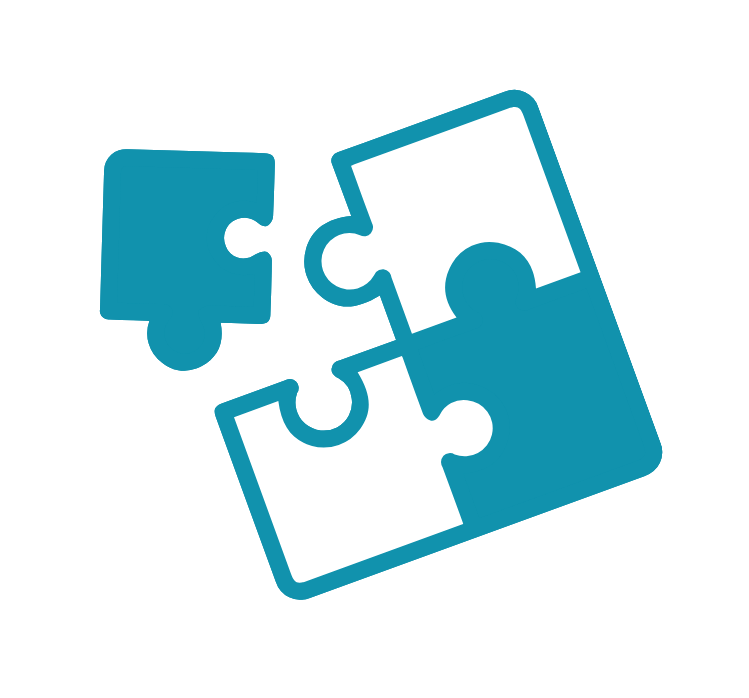
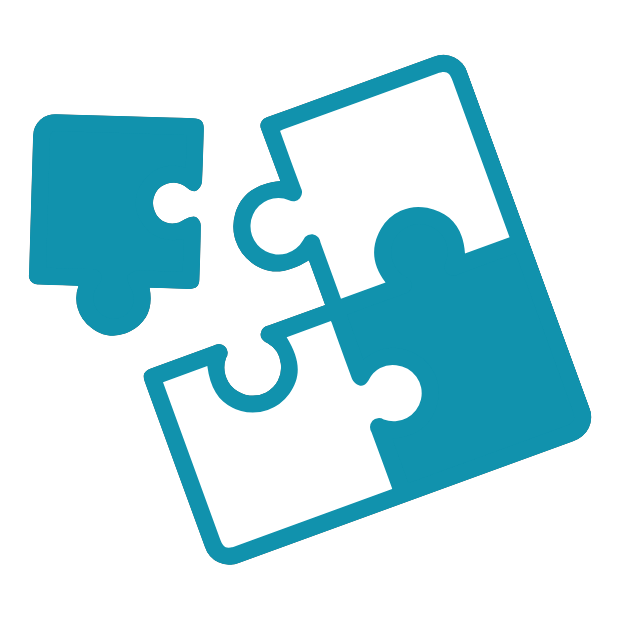
Align Why-it-matters + lock headline gold-word emphasis
- Why it matters: stat numbers slate→navy, gold eyebrow→AA-safe #b8860a
  (site-wide for .eyebrow.gold on light), label em→navy, drop a dead rule.
  Add reusable --navy / --gold-ink tokens.
- Headline emphasis locked to one device — a solid gold word (.gold-word,
  deep gold on light / bright on dark). Highlighted: "careers" (why),
  "Creation" (ecosystem), "gap" + "future." (why future wrights).
- Mission graphic uses client puzzle.png (trimmed/squared to 620×620);
  both V&M graphics matched at 80px; staggered entrance on the section.
- "Read more" stays a text-arrow link; hover gets a navy arrow-circle.

Documented in DESIGN-CONTEXT.md.

Changed region(s): [[0.0306, 0.0919, 0.95, 0.9194], [0.5516, 0.5516, 0.7048, 0.7048]]

diff --git a/styles/site.css b/styles/site.css
@@ -37,6 +37,8 @@
     --brand-deep-2: #28283A;     /* derived: darker slate */
     --brand-accent: #F4B400;     /* primary · Future Wrights logo gold */
     --brand-accent-2: #D19A00;   /* derived: darker gold for hover */
+    --navy: #0A1B3D;             /* brand navy · headings/numbers on light */
+    --gold-ink: #b8860a;         /* deep gold · gold TEXT/icons on light (WCAG AA) */
     --cyan: #00E5FF;             /* secondary accent (use sparingly on light bg) */
     --grey-30: #6161634D;        /* grey-opacity-30 */
     --success: #15803D;
@@ -136,8 +138,13 @@
     margin: 0 0 var(--sp-3);
   }
   .section--dark .eyebrow { color: rgba(255,255,255,0.85); }
-  .eyebrow.gold { color: var(--brand-accent-2); }
+  .eyebrow.gold { color: var(--gold-ink); }
   .section--dark .eyebrow.gold { color: var(--brand-accent); }
+
+  /* Headline keyword emphasis — ONE device: solid gold word.
+     Deep gold on light sections, bright logo gold on dark. */
+  .gold-word { color: var(--gold-ink); }
+  .section--dark .gold-word { color: var(--brand-accent); }
 
   /* ============================================================
      Section header pattern — single source of truth for every
@@ -525,11 +532,12 @@
     transition: transform var(--dur-micro) var(--ease-out);
   }
   .text-arrow:hover .arrow-circle {
-    background: rgba(14,14,15,0.08);
-    border-color: var(--ink);
+    background: var(--navy);
+    border-color: var(--navy);
   }
   .text-arrow:hover .arrow-circle svg {
     transform: translateX(3px);
+    color: #fff;
   }
   .text-arrow:focus-visible { outline: none; }
   .text-arrow:focus-visible .arrow-circle { box-shadow: var(--focus-ring); }
@@ -691,7 +699,7 @@
     font-weight: 600;
     letter-spacing: -0.03em;
     line-height: 1;
-    color: var(--brand-deep);
+    color: var(--navy);
     margin-bottom: var(--sp-2);
     font-variant-numeric: tabular-nums;
   }
@@ -701,7 +709,7 @@
     color: var(--ink);
     margin: 0 0 var(--sp-3);
   }
-  .stat .label em { font-style: italic; color: var(--brand-deep-2); }
+  .stat .label em { font-style: italic; color: var(--navy); }
   .stat .source {
     border: 0; padding: 0;
     margin-top: auto;
@@ -721,11 +729,6 @@
     color: var(--ink);
     letter-spacing: -0.3px;
     font-weight: 500;
-  }
-  .stats-conclusion strong {
-    color: var(--brand-deep); font-weight: 600;
-    background: linear-gradient(180deg, transparent 70%, rgba(244,180,0,0.4) 70%);
-    padding: 0 4px;
   }
   .stats-link {
     text-align: center; margin: var(--sp-4) 0 0;

diff --git a/index.html b/index.html
@@ -225,8 +225,8 @@ header.site:not(.scrolled) {
 .vm-badge::before { content:""; width:7px; height:7px; border-radius:50%; background: currentColor; }
 .vm-badge--gold   { background: rgba(244,180,0,0.14); color:#b8860a; }
 .vm-badge--cyan { background: rgba(0,229,255,0.12); color:#0e8fa8; }
-.vm-card__ico svg { width:76px; height:76px; }
-.vm-card__ico--art img { width:auto; height:92px; display:block; }   /* puzzle.png illustration */
+.vm-card__ico svg { width:80px; height:80px; }
+.vm-card__ico--art img { width:80px; height:80px; display:block; }   /* puzzle.png (squared) — matches telescope */
 .vm-card--vision  .vm-card__ico { color:#b8860a; }
 .vm-card--mission .vm-card__ico { color:#12a5c4; }
 .vm-card h3 { font-family:"General Sans","Inter",sans-serif; font-size:clamp(21px,2.3vw,27px); font-weight:600; letter-spacing:-.02em; line-height:1.22; color: var(--ink); margin:0 0 var(--sp-3); }
@@ -352,7 +352,7 @@ header.site:not(.scrolled) {
     <div class="container">
       <div class="section-head reveal">
         <span class="eyebrow gold">Why it matters</span>
-        <h2>The future careers students are heading into are already being rewritten by AI.</h2>
+        <h2>The future <span class="gold-word">careers</span> students are heading into are already being rewritten by AI.</h2>
         <p>AI isn't something students will deal with later — it's already reshaping how universities admit, how employers hire, and how students are being asked to learn. Four numbers, drawn from Statistics Canada, KPMG, and LinkedIn, show why now matters.</p>
       </div>
 
@@ -400,7 +400,7 @@ header.site:not(.scrolled) {
       <div class="vm-wrap reveal">
         <div class="vm-intro section-head">
           <span class="eyebrow gold">Why Future Wrights</span>
-          <h2>Filling the gap between school and the <span class="vm-grad">future.</span></h2>
+          <h2>Filling the <span class="vm-grad">gap</span> between school and the <span class="vm-grad">future.</span></h2>
           <p class="vm-sub">We prepare high school students not just to keep up with AI, but to lead with it—<span class="g">ethically</span>, <span class="g">creatively</span>, and <span class="g">confidently</span>.</p>
         </div>
 
@@ -432,7 +432,7 @@ header.site:not(.scrolled) {
     <div class="container">
       <div class="section-head reveal">
         <span class="eyebrow gold">The Future Wrights ecosystem</span>
-        <h2>A journey from AI Foundations<br>to Real-World Creation.</h2>
+        <h2>A journey from AI Foundations<br>to Real-World <span class="gold-word">Creation</span>.</h2>
         <p>Students begin in AI Labs, where curiosity becomes hands-on exploration and creative confidence. From there, they specialize through mentorship-driven University or Industry Tracks before advancing into AI Studio — a collaborative environment where ambitious students build real-world projects, gain experience, and bring ideas to life.</p>
       </div>
 

diff --git a/DESIGN-CONTEXT.md b/DESIGN-CONTEXT.md
@@ -168,6 +168,15 @@ records the decision).
     with a cyan-glow hover). The old `.fw-btn*` classes were **retired**.
   - **Out of scope:** `for-partners.html` / `industry-track.html` keep their own parked
     button styles (separate `tokens.css` system).
+- **Headline keyword emphasis — LOCKED (2026-05):** ONE device — a **solid gold word**
+  (never a highlighter on headlines). Reusable `.gold-word` class: deep gold `--gold-ink`
+  `#b8860a` on light sections, bright `--brand-accent` `#F4B400` on dark (`.section--dark`).
+  Applied: hero "AI era", Why Future Wrights "gap" + "future.", Why it matters "careers",
+  Ecosystem "Creation". The gold **highlighter-marker** (`.hl-gold`) is reserved for
+  emphasis inside **body/paragraph** text only (e.g. the stats conclusion). (Hero `.grad`
+  and `.vm-grad` predate `.gold-word` but render identically; migrate later for tidiness.)
+- **Shared tokens added (`site.css`):** `--navy: #0A1B3D` (brand navy for headings/numbers
+  on light) · `--gold-ink: #b8860a` (gold text/icons on light, AA) · `--radius-btn: 14px`.
 
 ### Visual system as built
 - **Palette:** navy `#0A1B3D`, gold `#F4B400` (logo gold), cyan `#00E5FF`, off-white text
@@ -368,3 +377,16 @@ records the decision).
   gold primary with navy text, lift −2px + shadow-deepen hover. Unified the hero `.fw-btn`
   into the shared `.btn` (`.fw-hero .btn` scope for size + dark ghost), flipped
   `.btn-primary` slate→gold, retired darken-on-hover overrides, nav CTA shape → 14px.
+- **2026-05** — Mission graphic swapped to the client's `assets/puzzle.png` (3-piece teal),
+  then trimmed/squared (749×698 → centered 620×620). Both V&M card graphics sized to a
+  matching **80px**. Added a **staggered entrance** to Why Future Wrights (intro → Vision →
+  Mission, ~120ms steps, reduced-motion safe).
+- **2026-05** — **Aligned "Why it matters" with the 3-color system:** stat numbers slate
+  `#353447` → brand **navy** `#0A1B3D`; gold eyebrow `#D19A00` → AA-safe **`#b8860a`**
+  (site-wide for `.eyebrow.gold` on light); label `<em>` → navy; removed a dead
+  `.stats-conclusion strong` rule. Added `--navy` / `--gold-ink` tokens.
+- **2026-05** — "Read more" kept as a text-arrow link (correct tertiary hierarchy, not a
+  CTA); polished its hover to a **navy** arrow-circle with a white arrow (light-bg variant).
+- **2026-05** — **Locked headline keyword emphasis to a solid gold word** (`.gold-word`,
+  see LOCKED note). Highlighted: Why it matters "careers"; Ecosystem "Creation" (Real-World
+  stays black); Why Future Wrights "gap" + "future.".